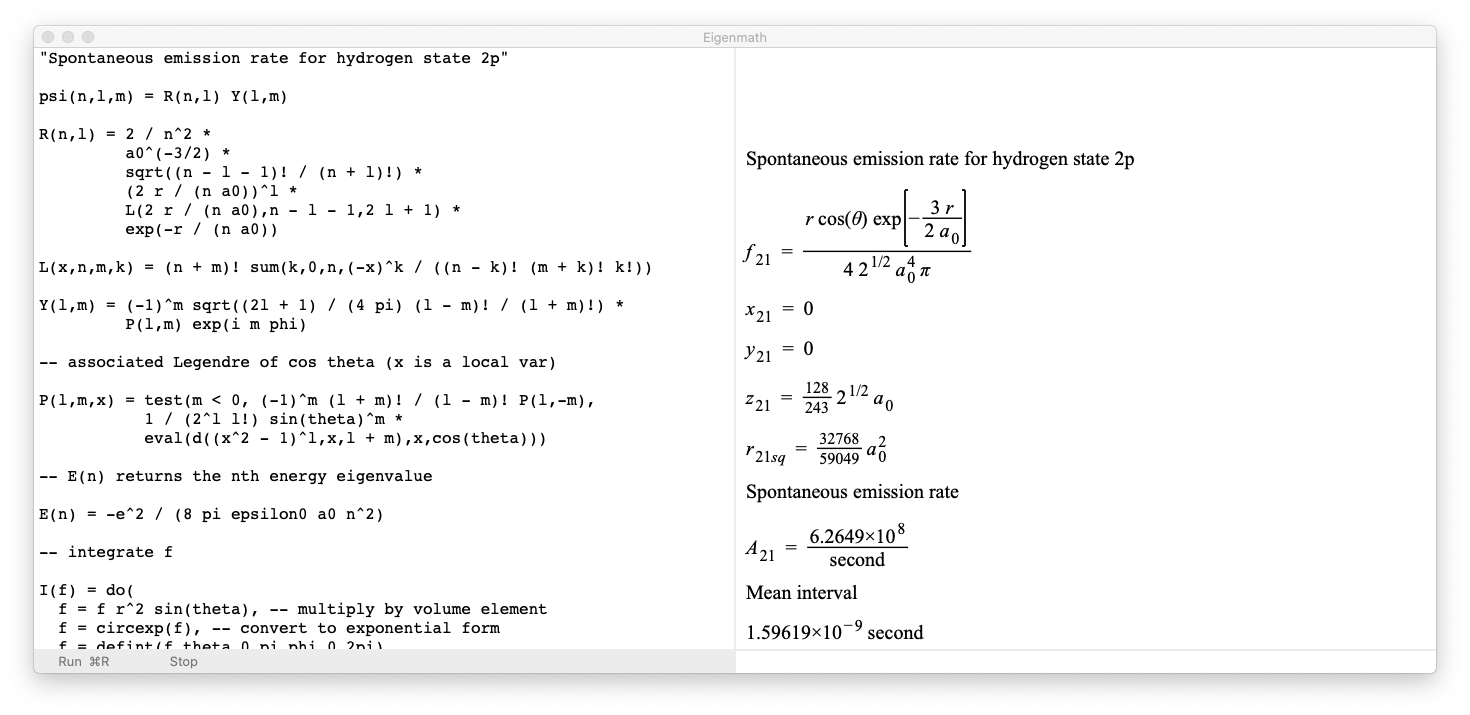
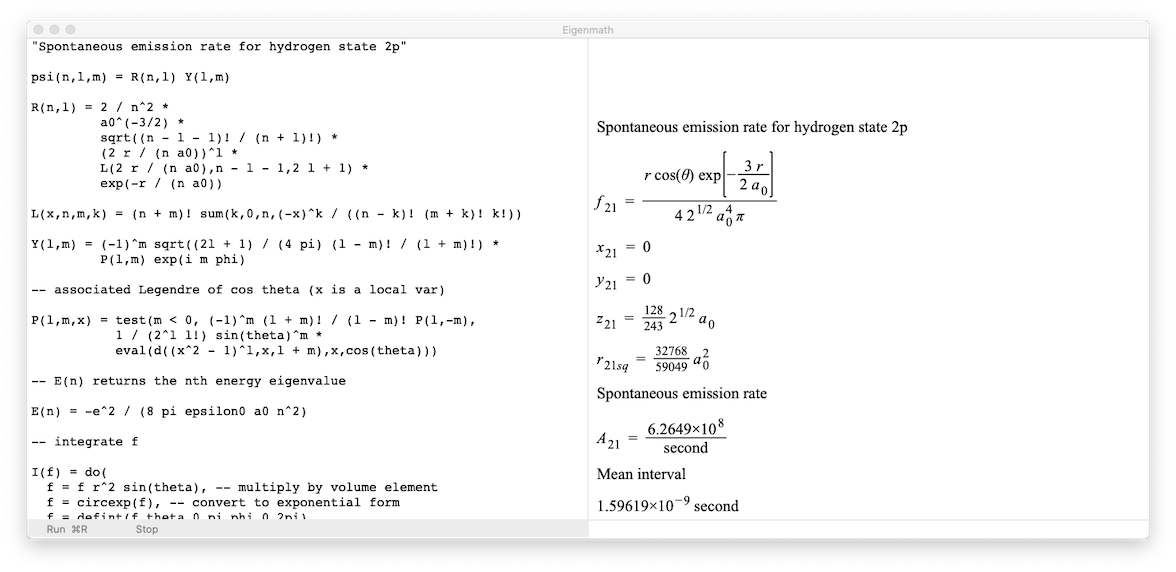
update

diff --git a/index.html b/index.html
@@ -6,7 +6,7 @@
 <title>Eigenmath Home Page</title>
 </head>
 <body style="text-align:center">
-<img src="screenshot.png" width="1029" height="501"><br>
+<img src="screenshot.png" width="1176" height="572"><br>
 <a href="eigenmath.pdf">Eigenmath Manual</a>
 &emsp;
 <a href="help.html">Quick Reference</a>
